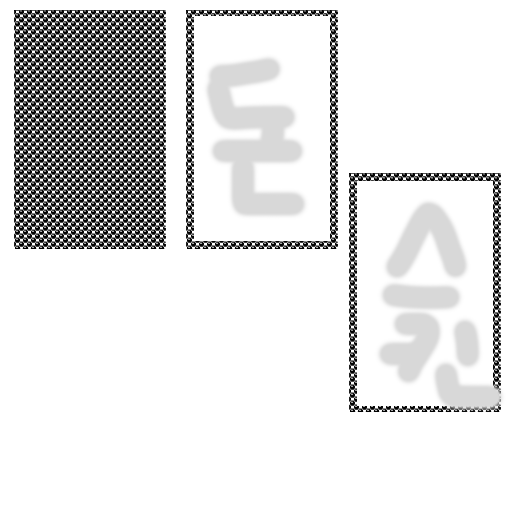
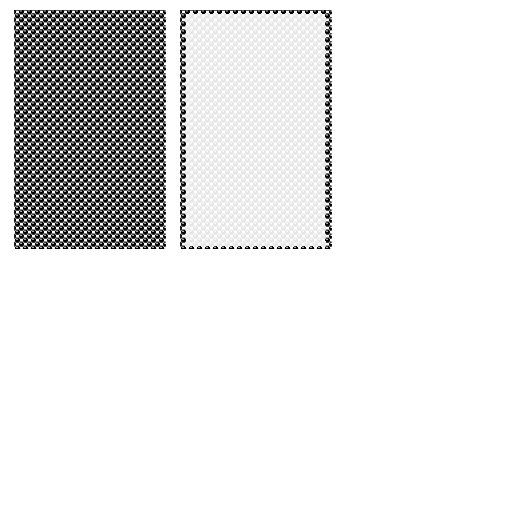
[UI][Lobby][BoxOpen] 2차 : 카드 프론트 이미지 만들어서, 결과 뜰 때 띄우기
카드 프론트 이미지 만들어서, 결과 뜰 때 띄우기

Changed region(s): [[0.3438, 0.0, 1.0, 0.8125]]

diff --git a/Fire/Assets/ZumZumZombie/Scripts/KM/UI/Lobby/Panel/BoxOpenPanel/BoxOpenPanel.cs b/Fire/Assets/ZumZumZombie/Scripts/KM/UI/Lobby/Panel/BoxOpenPanel/BoxOpenPanel.cs
@@ -10,6 +10,7 @@ public partial class BoxOpenPanel : MonoBehaviour
     public GameObject boxOpenObj;
     public GameObject resultPanel;
     public GameObject resultCardBackObj;
+    public GameObject resultCardFrontObj;
 
     public GameObject unBoxingButton;
     public GameObject closePanelButton;
@@ -28,6 +29,7 @@ public partial class BoxOpenPanel : MonoBehaviour
 
     private Vector2 closeResultPostion = new Vector2(2000, 2500);
     private Vector2 closeCardBackPosition = new Vector2(0, -1000);
+    private Vector2 closeCardFrontPosition = new Vector2(0, -1500);
 
     private void Awake()
     {
@@ -46,6 +48,7 @@ public partial class BoxOpenPanel : MonoBehaviour
         gameObject.GetComponent<RectTransform>().anchoredPosition = closePostion;
         resultPanel.GetComponent<RectTransform>().anchoredPosition = closeResultPostion;
         resultCardBackObj.GetComponent<RectTransform>().anchoredPosition = closeCardBackPosition;
+        resultCardFrontObj.GetComponent<RectTransform>().anchoredPosition = closeCardFrontPosition;
     }
 
     public void Open()
@@ -78,6 +81,7 @@ public partial class BoxOpenPanel : MonoBehaviour
         resultPanel.GetComponent<RectTransform>().anchoredPosition = closeResultPostion;
         resultCardBackObj.GetComponent<RectTransform>().anchoredPosition = closeCardBackPosition;
         resultCardBackObj.GetComponent<RectTransform>().localScale = Vector3.zero;
+        resultCardFrontObj.GetComponent<RectTransform>().anchoredPosition = closeCardFrontPosition;
     }
 
     private void IntroBox()

diff --git a/Fire/Assets/ZumZumZombie/Scripts/KM/UI/Lobby/Panel/BoxOpenPanel/BoxOpenPanel_PressUnBoxingButton.cs b/Fire/Assets/ZumZumZombie/Scripts/KM/UI/Lobby/Panel/BoxOpenPanel/BoxOpenPanel_PressUnBoxingButton.cs
@@ -30,6 +30,7 @@ public partial class BoxOpenPanel : MonoBehaviour
 
     private void ShowResultTween_Complete()
     {
+        resultCardFrontObj.GetComponent<RectTransform>().anchoredPosition = openPosition;
         resultPanel.GetComponent<RectTransform>().anchoredPosition = openPosition;
         closePanelButton.SetActive(true);
     }
@@ -67,7 +68,7 @@ public partial class BoxOpenPanel : MonoBehaviour
     private void ShowResultTween()
     {
         resultCardBackObj.GetComponent<RectTransform>().anchoredPosition = openPosition;
-        LTDescr d = LeanTween.scale(resultCardBackObj, Vector3.one, showResultTweenTime).setEase(LeanTweenType.easeInOutElastic);
+        LTDescr d = LeanTween.scale(resultCardBackObj, Vector3.one, showResultTweenTime).setEase(LeanTweenType.easeInOutBack);
         d.setOnComplete(ShowResultTween_Complete);
     }
 
